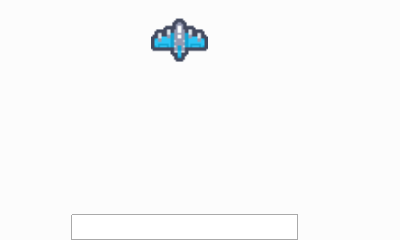
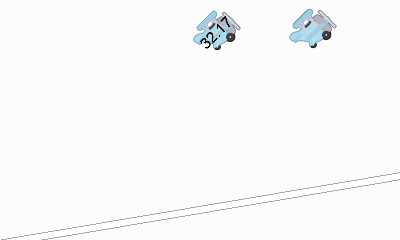
23/09

diff --git a/loop/engine/GameObject.js b/loop/engine/GameObject.js
@@ -7,12 +7,12 @@ class GameObject {
         this.name = actor.name;
         // Add gameObject to the engines
         this.container = engine.render.stage.addChild(new Container(actor));
-        this.rigidbody = engine.physics.world.createBody(new Body(actor));
+        this.rigidbody = engine.physics.world.createBody({ userData: { name: actor.name, tags: actor.tags } });
         this.audio = new Sound(actor.sound);
-        if (this.actor.scriptList) this.rule = new Rule(this);
+        this.rule = new Rule(this);
         // Add actor properties
         Object.assign(this, actor.allProperties);
-
+        // other properties
         this.initialCameraX = engine.gameState.cameraX;
         this.initialCameraY = engine.gameState.cameraY;
         this.debug = new PIXI.Graphics();
@@ -21,9 +21,10 @@ class GameObject {
     }
 
     fixedStep() {
+        this.rigidbody.setFixedRotation(false); // posible bug
         this.x = this.rigidbody.getPosition().x * Physics.pixelsPerMeter;
         this.y = this.rigidbody.getPosition().y * Physics.pixelsPerMeter;
-        this.angle = this.rigidbody.getAngle() * 180 / Math.PI;
+        this.angle = Utils.degrees(this.rigidbody.getAngle());
     }
 
     fixedUpdate(deltaTime) { // logic update
@@ -42,8 +43,8 @@ class GameObject {
         // update logic
         if (this.rule) try { this.rule.eval(this.engine.scope); } catch (error) { console.log(error); }
         // update scrolling
-        if (this._scrollX != 0) this.container.sprite.tilePosition.x += this._scrollX * deltaTime;
-        if (this._scrollY != 0) this.container.sprite.tilePosition.y += this._scrollY * deltaTime;
+        if (this.scrollX != 0) this.container.sprite.tilePosition.x += this.scrollX * deltaTime;
+        if (this.scrollY != 0) this.container.sprite.tilePosition.y += this.scrollY * deltaTime;
         // update text
         if (this.textOn) {
             this.container.spriteText.text = math.print(this.container.spriteText.expression, this.engine.scope, { notation: 'fixed', precision: 0 });
@@ -64,7 +65,6 @@ class GameObject {
             this.debug.lineStyle(1, 0xFF2222, 1, 0.5);
             this.debug.zIndex = this.zIndex;
             var shape = this.rigidbody.getFixtureList().getShape();
-            console.log(this.rigidbody.getFixtureList().getShape());
             switch (this.collider) {
                 case "Box": {
                     this.debug.moveTo(shape.getVertex(0).x * Physics.pixelsPerMeter, shape.getVertex(0).y * Physics.pixelsPerMeter);
@@ -99,36 +99,41 @@ class GameObject {
     set width(value) {  // sprite width don't include scale only tile
         this._width = value;
         this.container.sprite.scale.x = value / this.container.sprite.width;
-        if (this.rigidbody.getFixtureList()) this.rigidbody.getFixtureList().m_shape = planck.Box((this.width / 2) * Physics.metersPerPixel, (this.height / 2) * Physics.metersPerPixel);
     }
 
     get height() { return this._height }
     set height(value) {
         this._height = value;
         this.container.sprite.scale.y = value / this.container.sprite.height;
-        if (this.rigidbody.getFixtureList()) this.rigidbody.getFixtureList().m_shape = planck.Box((this.width / 2) * Physics.metersPerPixel, (this.height / 2) * Physics.metersPerPixel);
     }
 
     get scaleX() { return this._scaleX }
     set scaleX(value) {
         this._scaleX = this.container.sprite.scale.x = value;
-        if (this.rigidbody.getFixtureList()) this.rigidbody.getFixtureList().m_shape = planck.Box((this.width / 2) * Physics.metersPerPixel, (this.height / 2) * Physics.metersPerPixel);
     }
 
     get scaleY() { return this._scaleY }
     set scaleY(value) {
         this._scaleY = this.container.sprite.scale.y = value;
-        if (this.rigidbody.getFixtureList()) this.rigidbody.getFixtureList().m_shape = planck.Box((this.width / 2) * Physics.metersPerPixel, (this.height / 2) * Physics.metersPerPixel);
     }
 
-    get angle() { return Math.round(this._angle) } /*** investigar porque no es un número */
-    set angle(value) { this._angle = this.container.angle = value; this.rigidbody.setAngle(value * Math.PI / 180); }
+    get angle() { return this._angle }
+    set angle(value) {
+        this._angle = this.container.angle = value;
+        this.rigidbody.setAngle(Utils.radians(value));
+    }
 
     get screen() { return this._screen }
     set screen(value) { this._screen = value }
 
     get collider() { return this._collider }
-    set collider(value) { this._collider = value; this.rigidbody.createFixture(new Fixture(this)); }
+    set collider(value) {
+        this._collider = value;
+        if (this.rigidbody.getFixtureList()) this.rigidbody.destroyFixture(this.rigidbody.getFixtureList());
+        var collisionShape = (value != "Circle") ? planck.Box((this.width / 2) * Physics.metersPerPixel, (this.height / 2) * Physics.metersPerPixel) :
+            planck.Circle((this.width > this.height) ? this.width / 2 * Physics.metersPerPixel : this.height / 2 * Physics.metersPerPixel);
+        this.rigidbody.createFixture({ shape: collisionShape });
+    }
 
     get tags() { return this._tags }
     set tags(value) { this._tags = value }
@@ -161,30 +166,28 @@ class GameObject {
     get scrollX() { return this._scrollX }
     set scrollX(value) {
         this._scrollX = this.container.sprite.scrollX = value;
-        if (value) this.container.sprite.cacheAsBitmap = false;
-        else this.container.sprite.cacheAsBitmap = true;
+        if (value != 0) this.container.sprite.cacheAsBitmap = false;
+        else if (this.scrollY == 0) this.container.sprite.cacheAsBitmap = true;
     };
 
     get scrollY() { return this._scrollY }
     set scrollY(value) {
         this._scrollY = this.container.sprite.scrollY = value;
-        if (value) this.container.sprite.cacheAsBitmap = false;
-        else this.container.sprite.cacheAsBitmap = true;
+        if (value != 0) this.container.sprite.cacheAsBitmap = false;
+        else if (this.scrollX == 0) this.container.sprite.cacheAsBitmap = true;
     }
 
     get tileX() { return this._tileX }
     set tileX(value) {
         this._tileX = this.container.sprite.tileX = value;
-        const existsImage = Boolean(player.file.loader.resources[this.container.sprite.image]);
+        const existsImage = Boolean(player.file.loader.resources[this.image]);
         this.container.sprite.width = (existsImage) ? this.container.sprite.texture.width * value : 50 * value;
-        console.log(value,this.container.sprite.width,existsImage);
-        if (this.rigidbody.getFixtureList()) this.rigidbody.getFixtureList().m_shape = planck.Box((this.width / 2) * Physics.metersPerPixel, (this.height / 2) * Physics.metersPerPixel);
     }
 
     get tileY() { return this._tileY }
     set tileY(value) {
         this._tileY = this.container.sprite.tileY = value;
-        const existsImage = Boolean(player.file.loader.resources[this.container.sprite.image]);
+        const existsImage = Boolean(player.file.loader.resources[this.image]);
         this.container.sprite.height = (existsImage) ? this.container.sprite.texture.height * value : 50 * value;
     }
 
@@ -285,7 +288,9 @@ class GameObject {
     }
 
     get fixedAngle() { return this._fixedAngle }
-    set fixedAngle(value) { this._fixedAngle = value; this.rigidbody.setFixedRotation(value) }
+    set fixedAngle(value) {
+        this._fixedAngle = !value; this.rigidbody.setFixedRotation(!value);
+    }
 
     get velocityX() { return this._velocityX }
     set velocityX(value) {
@@ -315,5 +320,5 @@ class GameObject {
     set dampingLinear(value) { this._dampingLinear = value; this.rigidbody.setLinearDamping(value) }
 
     get dampingAngular() { return this._dampingAngular }
-    set dampingAngular(value) { this._dampingAngular = value; this.rigidbody.getAngularDamping(value) }
+    set dampingAngular(value) { this._dampingAngular = value; this.rigidbody.setAngularDamping(value) }
 }

diff --git a/loop/engine/Container.js b/loop/engine/Container.js
@@ -3,12 +3,21 @@ class Container extends PIXI.Container {
     constructor(actor) {
         super();
         this.zIndex = actor.zIndex;
-        this.x = actor.x;
-        this.y = actor.y;
-        this.angle = actor.angle;
-        this.sprite = new Sprite(actor);
+        // add sprite
+        const existsImage = Boolean(player.file.loader.resources[actor.image]);
+        this.sprite = new PIXI.TilingSprite();
+        if (existsImage) this.sprite.texture = player.file.loader.resources[actor.image].texture;
+        else {
+            this.sprite.texture = PIXI.Texture.WHITE;
+            this.sprite.texture.orig = new PIXI.Rectangle(0, 0, 50, 50);
+        }
+        this.sprite.texture.rotate = 8;
+        this.sprite.anchor.set(0.5);
         this.addChild(this.sprite);
-        this.spriteText = new Text(actor);
+        // add sprite text
+        const style = new PIXI.TextStyle({ wordWrap: true, wordWrapWidth: actor.width, padding: actor.width });
+        this.spriteText = new PIXI.Text("", style);
+        this.spriteText.anchor.set(0.5);
         this.addChild(this.spriteText);
     }
 }

diff --git a/loop/engine/Rule.js b/loop/engine/Rule.js
@@ -41,7 +41,7 @@ class Rule {
     edit(params) {
         var position = params.property.indexOf(".") + 1;
         var property = params.property.substring(position);
-        var specialProperties = ["type", "color", "backgroundColor", "fill", "image", "sound", "soundtrack", "font", "style", "align"];
+        var specialProperties = ["type", "color", "backgroundColor", "fill", "image", "sound", "soundtrack", "font", "style", "align","collider"];
         if (specialProperties.includes(property) && params.value[0] != "'") params.value = "'" + params.value + "'"; // to add quotes if it doesn't have them
         return (params.property + " = " + params.value);
     }

diff --git a/loop/engine/index.php b/loop/engine/index.php
@@ -27,16 +27,11 @@
         <script src="Input.js"></script>
         <script src="Logic.js"></script>
         <script src="Render.js"></script>        
-		<script src="Audio.js"></script>
 		<script src="Engine.js"></script>
 		
 		<script src="GameState.js"></script>
 		<script src="GameObject.js"></script>
 		<script src="Container.js"></script>
-		<script src="Body.js"></script>
-		<script src="Fixture.js"></script>
-		<script src="Sprite.js"></script>
-		<script src="Text.js"></script>
 		<script src="Rule.js"></script>
 		<script src="Sound.js"></script>
 
